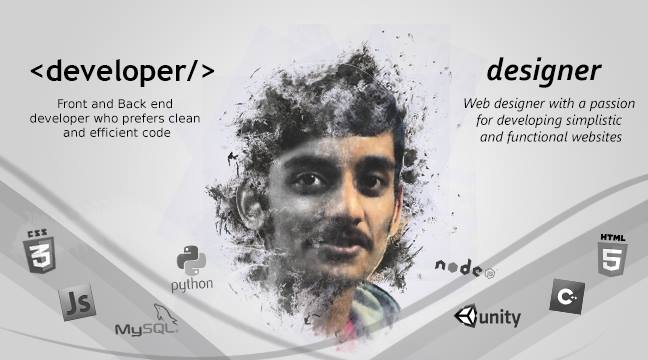
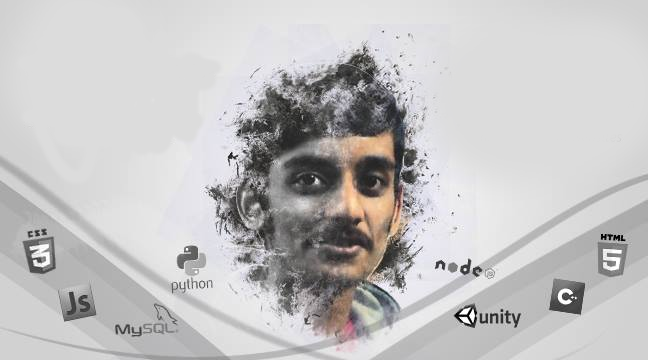
Remove text from the image and add normal text on homepage

diff --git a/src/public/index.html b/src/public/index.html
@@ -42,8 +42,18 @@
 		</div>
 
 		<div style="height: 750px;">
-			<div class="text-center" id="maincontent1" style="z-index:1; height: 100%; position: absolute;">
-			</div>		
+			<div id="maincontent11" style="font-weight:bold; z-index:1; font-size: 4em; position: absolute; margin-left:6%; margin-top:100px;">
+				&lt;developer/&gt;
+			</div>
+			<div id="maincontent12" style="font-weight:bold; z-index:1; font-size: 4em; position: absolute; margin-left:72%; margin-top:100px;">
+				designer
+			</div>
+			<div id="maincontent13" style="padding-left:35px; width:22%; z-index:1; font-size: 1.5em; position: absolute; margin-left:6%; text-align:center; margin-top:190px;">
+				Full stack developer who prefers clean and efficient code
+			</div>
+			<div id="maincontent14" style="width:20%; z-index:1; font-size: 1.5em; position: absolute; margin-left:72%; text-align:center; margin-top:190px;">
+				Web designer with a passion for developing minimalistic content
+			</div>
 			<div class="cover" style="height: 100%;">
 			</div>
 		</div>

diff --git a/src/public/scroll.js b/src/public/scroll.js
@@ -23,25 +23,25 @@ $(function () {
   		start: 'Images/development.png',
   		end: 'Images/developmentblur.png',
   		backgroundPosition: 'center center',
-  		threshold: 0.2
+  		threshold: 0.7
   });
   $('.contact').crossfade({
       start: 'Images/background.png',
       end: 'Images/background.png',
       backgroundPosition: 'center center',
-      threshold: 0.2
+      threshold: 0.7
   });
   $('.about').crossfade({
       start: 'Images/background.png',
       end: 'Images/background.png',
       backgroundPosition: 'center center',
-      threshold: 0.2
+      threshold: 0.7
   });
   $('.boundaryDivider').crossfade({
       start: 'Images/boundary.jpg',
       end: 'Images/boundary.jpg',
       backgroundPosition: 'center center',
-      threshold: 0.2
+      threshold: 0.7
   })
 });
 
